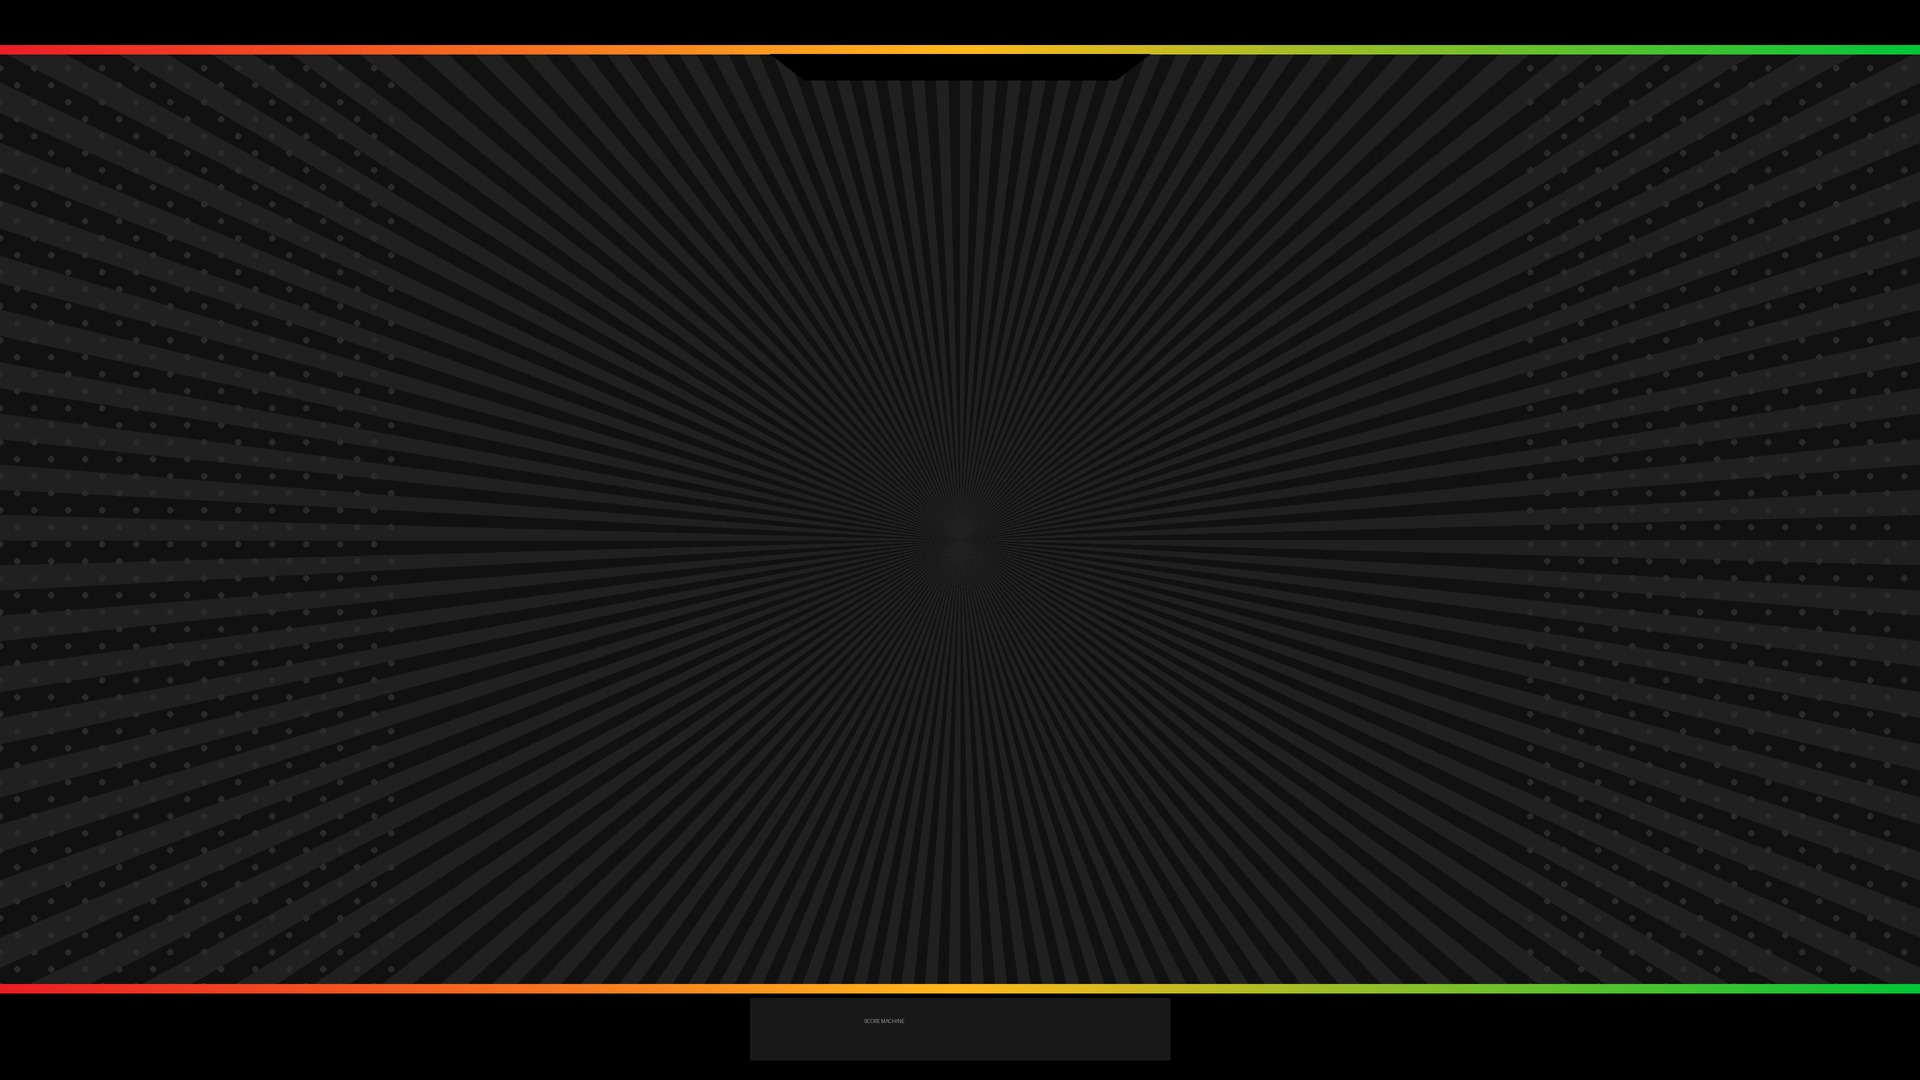
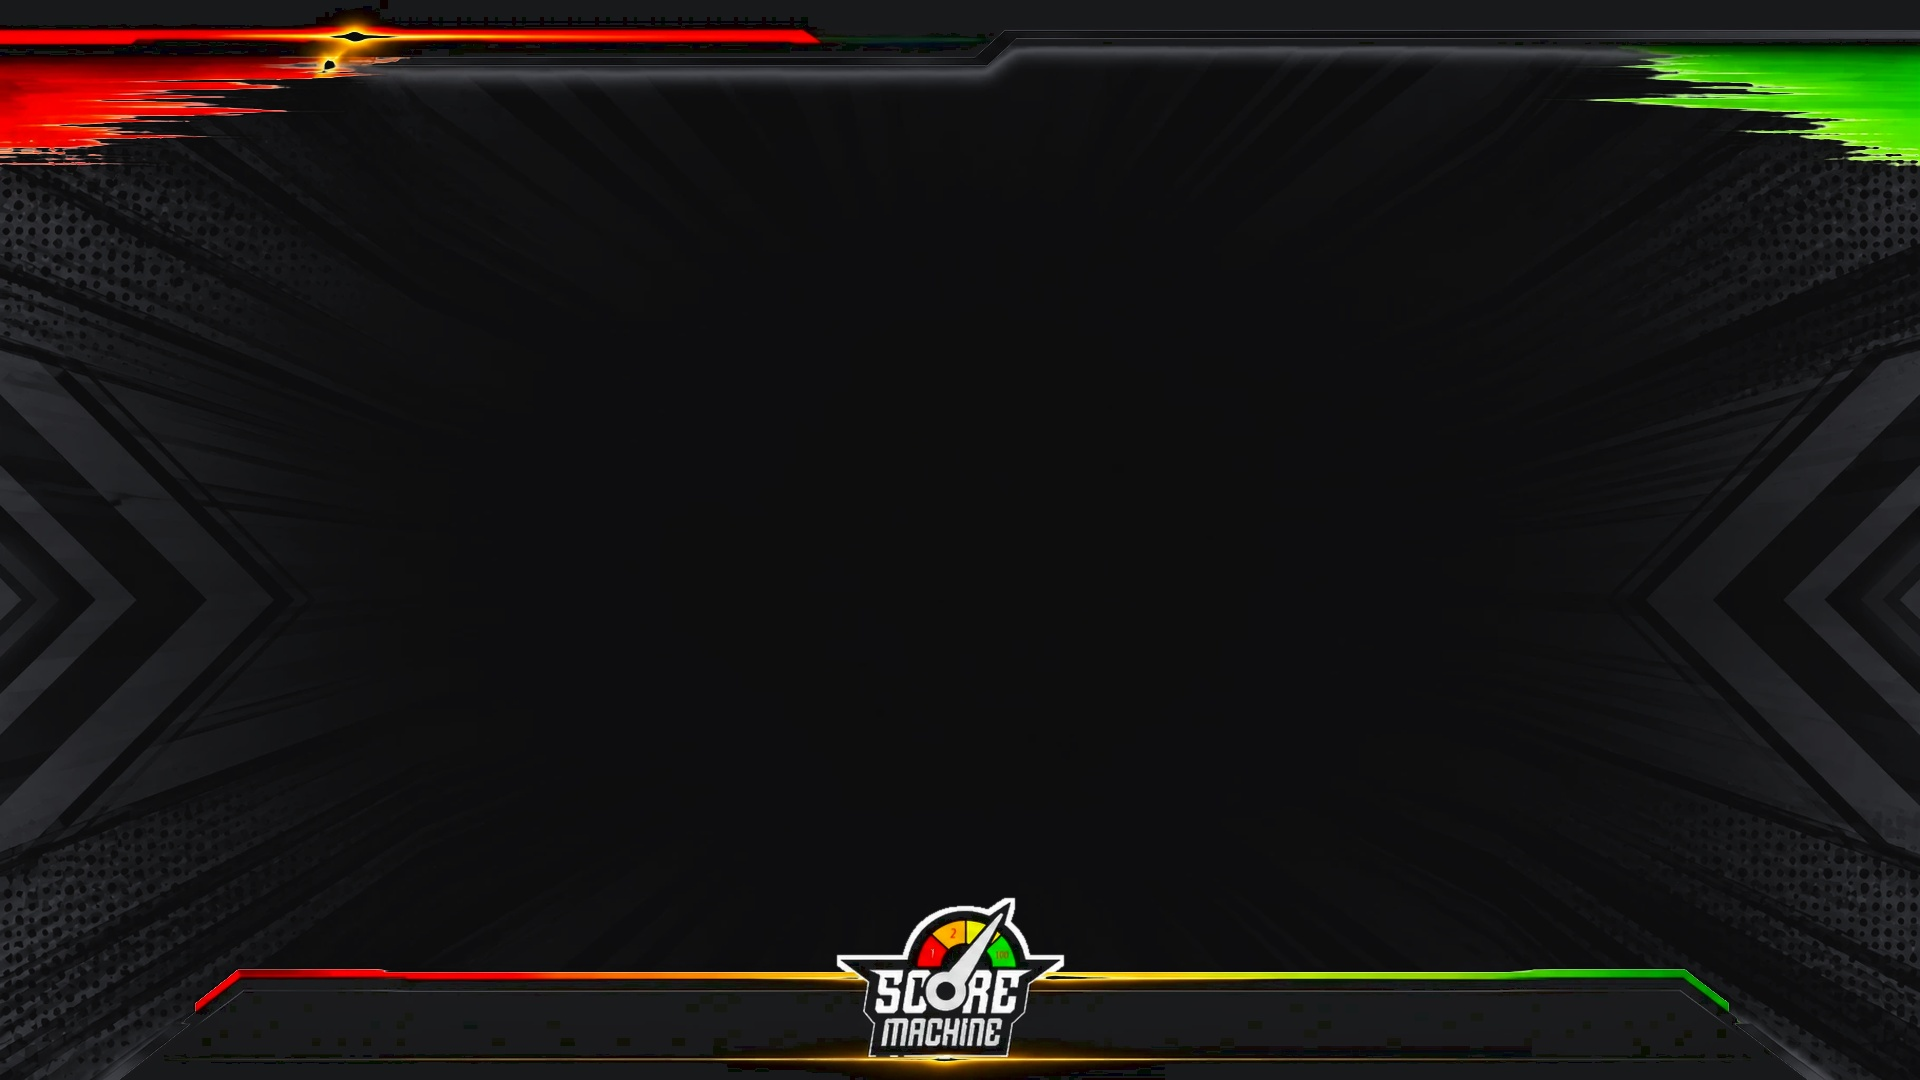
Use the real brand backgrounds and host headshot
Replaces the placeholder background art with the files supplied via Drive:
bg_light.png and bg_dark.jpg, both true 1920x1080. The light one is a real
PNG, so the deck now references the correct extension.

The bio slide carries the real headshot instead of a framed slot.

Testimonial screenshots are deliberately NOT committed. They contain other
people's financial data - a credit report, a bank approval, a cashier's
cheque, private message threads - and this repository is public, so a commit
would publish them permanently into git history. Each testimonial slide
instead carries a labelled frame naming the file to drop in, done inside
Canva where the images stay private.

Claude-Session: https://claude.ai/code/session_019VjW1TwnRUemW61bRUby2t

diff --git a/deck/build_deck.py b/deck/build_deck.py
@@ -679,46 +679,75 @@ insert_after("S10 ", dict(
           "Second, “helped thousands achieve financial freedom” is a results claim, and slide 13 "
           "promises the room no approval and no number. Decide which one you want the room to hear."))
 
-# -- social proof block, placed after the bundle ask and before the value stack --
-insert_after("Q15 ", dict(
-    label="T2 — Social proof (results)", bg=DARK, layout="testimonial",
-    kicker="WHAT PEOPLE ARE SAYING",
-    cards=[
-        dict(slot="TESTIMONIAL 3",
-             quote="Still a work in progress but we getting RESULTS. All personal info updated "
-                   "with the bureaus. And 13 inquires removed with 2 credit builders added to "
-                   "the profile..it's UP from here",
-             who="Ricardo Bey"),
-        dict(slot="TESTIMONIAL 4",
-             quote="A credit report showing prior inquiries returned as Deleted.",
-             who="Client credit report"),
-    ],
-    notes="Social proof, results. Drop the two screenshots into the framed slots.\n\n"
-          "⚠ BEFORE STAGE — this slide carries the most risk in the deck. (1) The credit-report "
-          "screenshot also shows a public bankruptcy record with a court reference number; redact "
-          "it or use a different image. (2) Both images are another person's data — get written "
-          "permission to show them. (3) “13 inquiries removed” is a specific results claim, which "
-          "sits against slide 13 and against the deck's own no-earnings-claims guardrail. If you "
-          "keep it, say plainly that it is one person's result and not typical."))
+# -- social proof, placed after the bundle ask and before the value stack --
+# One screenshot per slide with the quote set large, so the room can read it even
+# when the phone screenshot is small on stream. Ordered safest first, so cutting
+# from the bottom removes the riskiest slides.
+TESTIMONIALS = [
+    ("testimonial-3.png", "Gerren Hansley",
+     "I love myself!!! Discovering you has made a life changing couple of events for me, "
+     "it won't be overnight but over life!!!! Thanks for a better n clearer understanding!!!", ""),
+    ("testimonial-4.png", "Rochelle Johnson",
+     "It was great. A lot of good options for people who are new to credit or needing to fix "
+     "their credit. I think it's fantastic. Thank for sharing it with me.", ""),
+    ("testimonial-12.png", "David",
+     "Hey Nick I just want to let you know I'm grateful since the first day I met you and the "
+     "team, from Vegas till now you really helped change my mindset and my financial situation "
+     "from the jump bro I was really down bad when we met", ""),
+    ("testimonial-6.png", "TransUnion investigation result",
+     "INVESTIGATION RESULTS - DELETED: The disputed item(s) was removed from your credit report.",
+     ""),
+    ("testimonial-1.png", "Client credit report",
+     "Three prior inquiries returned as Deleted and removed from the credit report.",
+     "⚠ This screenshot also shows a public bankruptcy record that did NOT come off. The court "
+     "reference number is blurred, but the record is still visible and it argues against the "
+     "slide. Consider cropping to the three deleted inquiries, or cutting this one."),
+    ("testimonial-2.png", "Ricardo Bey",
+     "Still a work in progress but we getting RESULTS. All personal info updated with the "
+     "bureaus. And 13 inquires removed with 2 credit builders added to the profile..it's UP "
+     "from here",
+     "⚠ Two problems. The message credits “the MINTERSHIP”, not Score Machine — as proof for "
+     "tonight's offer that is misleading. And “13 inquires removed” is a specific results claim "
+     "against slide 13's promise of no number."),
+    ("testimonial-7.png", "Keyana Matthews",
+     "I struggled with removing a $24k collection from my account for about 2 years. I paid "
+     "LexingtonLaw to remove it & they couldn't. Wealth builders has officially changed my "
+     "life. All from following the blueprint",
+     "⚠ Highest-risk slide in the deck. It names a competitor as having failed, which carries "
+     "defamation risk with no upside, and it credits “Wealth builders”, not Score Machine. The "
+     "account and phone numbers in the screenshot are blurred. Recommend cutting it."),
+    ("testimonial-8.jpg", "Tracy Small",
+     "1 year anniversary with the wealth builders!!!!!! Got one of my dream whips ... WITH NO "
+     "MONEY DOWN!!!!",
+     "⚠ Credits “the wealth builders”, not Score Machine. Licence plate is blurred; faces are "
+     "still visible, so get permission."),
+    ("testimonial-11.jpg", "Credit score: 826, Exceptional",
+     "Someone just became a member of the 800 club",
+     "⚠ A specific score on screen, minutes after slide 13 promises the room no number."),
+    ("testimonial-10.jpg", "Takirra Haley",
+     "You have been approved. $25,000 credit limit, 8.99% APR, $0 annual fee.",
+     "⚠ A specific approval and limit on screen, against slide 13's promise of no approval."),
+    ("testimonial-9.jpg", "Nicholas Minter",
+     "Quick lil $120k today w/ 1 inquiry",
+     "⚠ A specific funding figure — the clearest earnings-style claim in the deck and the one "
+     "most likely to draw scrutiny."),
+    ("testimonial-5.png", "Client travel redemption",
+     "A round trip booked on points — 62,000 miles plus $11.20.",
+     "⚠ An airline booking, not a credit or funding outcome. It proves nothing about the ten "
+     "Blueprint lines. Record locator is blurred."),
+]
 
-insert_after("Q15 ", dict(
-    label="T1 — Social proof (words)", bg=DARK, layout="testimonial",
-    kicker="WHAT PEOPLE ARE SAYING",
-    cards=[
-        dict(slot="TESTIMONIAL 1",
-             quote="I love myself!!! Discovering you has made a life changing couple of events "
-                   "for me, it won't be overnight but over life!!!! Thanks for a better n clearer "
-                   "understanding!!!",
-             who="Gerren Hansley"),
-        dict(slot="TESTIMONIAL 2",
-             quote="It was great. A lot of good options for people who are new to credit or "
-                   "needing to fix their credit. I think it's fantastic. Thank for sharing it with me.",
-             who="Rochelle Johnson"),
-    ],
-    notes="Social proof, words. Drop the two message screenshots into the framed slots. The pull "
-          "quotes are there so the room can read them even if the screenshots are small on stream.\n\n"
-          "⚠ These are private message threads with named people. Get their permission before "
-          "showing them, or blur the names and avatars."))
+for _img, _who, _quote, _warn in reversed(TESTIMONIALS):
+    _n = ("Screenshot supplied by the host. The quote is set large beside it so the room can "
+          "read it even if the screenshot is small on stream.")
+    if _warn:
+        _n += "\n\n" + _warn
+    _n += ("\n\nGENERAL: every one of these is another person's private message or account. Get "
+           "written permission before showing them, and say plainly that individual results are "
+           "not typical.")
+    insert_after("Q15 ", dict(label=f"T — {_who}", bg=DARK, layout="testimonial",
+                              kicker="WHAT PEOPLE ARE SAYING", img=_img,
+                              who=_who, quote=_quote, notes=_n))
 
 # ─────────────────────────────────────────────────────────────
 # Original vector iconography (no stock art, no third-party assets)
@@ -962,24 +991,25 @@ def render(s):
         b.append(bureau_cards(s["names"]))
     elif L == "bio":
         b.append('<div class="bio">')
-        b.append('<div class="biophoto" data-slot="headshot">'
-                 '<span>[ HEADSHOT ]</span></div>')
+        b.append(f'<img class="biophoto" src="{BG_BASE}/headshot.jpg" alt="Host portrait">')
         b.append('<div class="biotext">')
         b.append(f'<h2 class="bioname">{esc(s["name"])}</h2>')
         for para in s["paras"]:
             b.append(f'<p class="biopara">{esc(para)}</p>')
         b.append('</div></div>')
     elif L == "testimonial":
-        b.append(f'<p class="q-kicker">{esc(s["kicker"])}</p>')
-        b.append('<div class="tgrid">')
-        for card in s["cards"]:
-            b.append('<div class="tcard">')
-            b.append(f'<div class="tshot" data-slot="{esc(card["slot"])}">'
-                     f'<span>[ {esc(card["slot"])} ]</span></div>')
-            b.append(f'<p class="tquote">{esc(card["quote"])}</p>')
-            b.append(f'<p class="twho">{esc(card["who"])}</p>')
-            b.append('</div>')
-        b.append('</div>')
+        # The screenshot is a framed slot, not a committed file: these images hold other
+        # people's financial data and the repo that feeds the importer is public.
+        # Drag each one into its frame inside Canva instead.
+        b.append('<div class="trow">')
+        b.append(f'<div class="tshot" data-slot="{esc(s["img"])}">'
+                 f'<span>DROP<br>{esc(s["img"])}<br>HERE</span></div>')
+        b.append('<div class="tbody">')
+        b.append(f'<p class="q-kicker tk">{esc(s["kicker"])}</p>')
+        for part in wrap_text(s["quote"], 40):
+            b.append(f'<p class="tquote">{esc(part)}</p>')
+        b.append(f'<p class="twho">{esc(s["who"])}</p>')
+        b.append('</div></div>')
     elif L == "question":
         b.append(f'<p class="q-kicker">{esc(s["kicker"])}</p>')
         for ln in wrap_text(s["text"], 34):
@@ -1030,22 +1060,21 @@ CSS = """
 .bic{width:70px;height:74px}
 .bname{font-family:'Archivo Black',Arial,sans-serif;font-size:36px;margin-top:12px}
 .bio{display:flex;gap:64px;align-items:center;width:1400px;text-align:left}
-.biophoto{width:400px;height:520px;flex:none;border-radius:20px;
-  border:5px dashed rgba(0,0,0,.30);display:flex;align-items:center;justify-content:center;
-  font-size:26px;font-weight:700;color:#8A8A8A;background:rgba(0,0,0,.05)}
-.page.dark .biophoto{border-color:rgba(255,255,255,.4);color:#B9B9B9;
-  background:rgba(255,255,255,.07)}
+.biophoto{width:400px;height:533px;flex:none;border-radius:20px;object-fit:cover;
+  box-shadow:0 0 0 4px rgba(0,0,0,.18)}
 .biotext{flex:1}
 .bioname{font-size:56px;margin-bottom:22px}
 .biopara{font-size:31px;line-height:1.45;font-weight:600;margin-bottom:18px}
-.tgrid{display:flex;gap:56px;justify-content:center;width:1400px}
-.tcard{flex:1;display:flex;flex-direction:column;align-items:center}
-.tshot{width:100%;height:300px;border-radius:16px;border:5px dashed rgba(255,255,255,.4);
-  display:flex;align-items:center;justify-content:center;font-size:22px;font-weight:700;
-  color:#B9B9B9;background:rgba(255,255,255,.07);margin-bottom:22px}
-.page.light .tshot{border-color:rgba(0,0,0,.30);color:#8A8A8A;background:rgba(0,0,0,.05)}
-.tquote{font-size:28px;line-height:1.42;font-weight:600;margin-bottom:14px}
-.twho{font-family:'Archivo Black',Arial,sans-serif;font-size:26px;color:#FFB81C}
+.trow{display:flex;gap:70px;align-items:center;width:1400px;text-align:left}
+.tshot{height:700px;width:324px;flex:none;border-radius:14px;
+  border:5px dashed rgba(255,255,255,.42);background:rgba(255,255,255,.07);
+  display:flex;align-items:center;justify-content:center;text-align:center;
+  font-size:22px;font-weight:700;line-height:1.7;color:#C9C9C9}
+.page.light .tshot{border-color:rgba(0,0,0,.30);background:rgba(0,0,0,.05);color:#8A8A8A}
+.tbody{flex:1}
+.q-kicker.tk{width:auto;text-align:left;margin-bottom:26px;font-size:30px;letter-spacing:5px}
+.tquote{font-size:38px;line-height:1.32;font-weight:700;width:auto}
+.twho{font-family:'Archivo Black',Arial,sans-serif;font-size:30px;color:#FFB81C;margin-top:24px}
 .page.light .twho{color:#B07A00}
 
 :root{
@@ -1116,7 +1145,7 @@ h1,h2,h3{font-family:'Archivo Black','Arial Black',Arial,sans-serif;font-weight:
 def main():
     pages = []
     for s in S:
-        bgfile = "bg_dark.jpg" if s["bg"] == DARK else "bg_light.jpg"
+        bgfile = "bg_dark.jpg" if s["bg"] == DARK else "bg_light.png"
         pages.append(
             f'  <section class="page {s["bg"]}" data-document-role="page"\n'
             f'           data-label="{esc(s["label"])}"\n'
